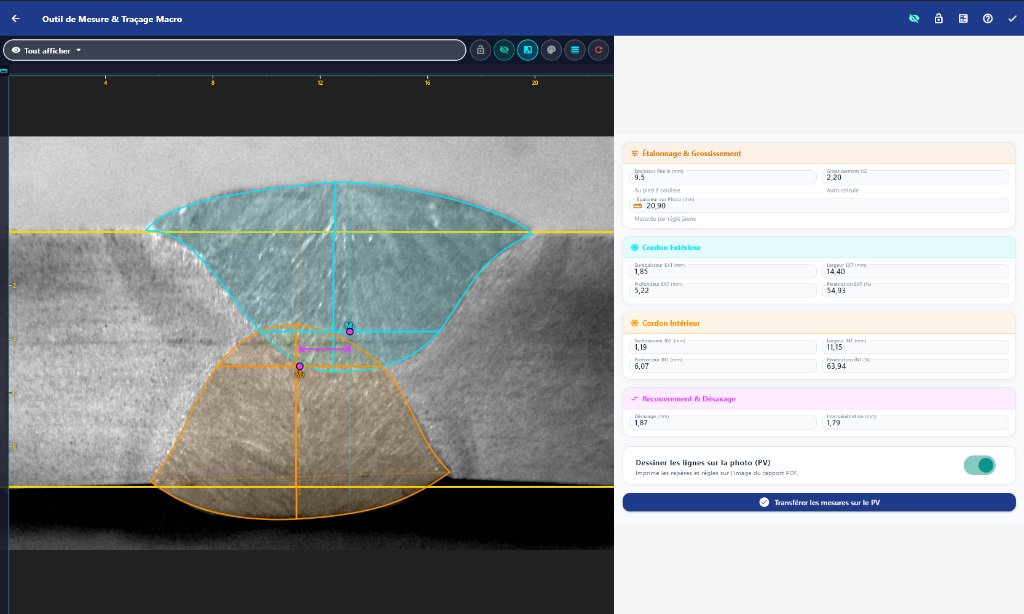
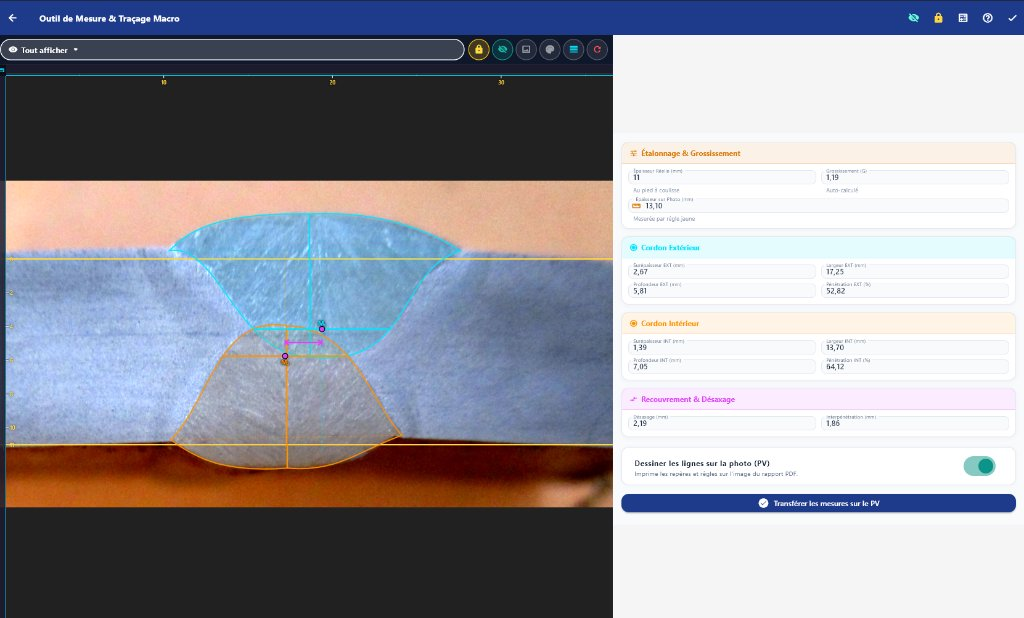
feat: update measurement workstation screenshot and author profile with surface treatment & numerical simulation

diff --git a/landing-page/index.html b/landing-page/index.html
@@ -45,9 +45,9 @@
         "@id": "https://tahaarrr.github.io/macrographique/#ayati-tahar",
         "name": "Ayati Tahar",
         "alternateName": ["Tahar Ayati", "Ingénieur Ayati Tahar", "Ing. Tahar Ayati"],
-        "jobTitle": "Ingénieur & Chercheur en Génie des Matériaux",
+        "jobTitle": "Ingénieur Chercheur en Génie des Matériaux",
         "email": "mailto:ayati.tahar@gmail.com",
-        "description": "Ingénieur métallurgiste spécialisé dans l’intégrité des soudures industrielles SAWH, les essais macrographiques et la conception logicielle.",
+        "description": "Ingénieur chercheur en génie des matériaux, spécialisé dans le traitement de surface, la simulation numérique et l’intégrité des soudures industrielles SAWH.",
         "url": "https://tahaarrr.github.io/macrographique/",
         "sameAs": [
           "https://www.researchgate.net/profile/Tahar-Ayati",
@@ -55,11 +55,13 @@
           "https://tahaarrr.github.io/macrographique/"
         ],
         "knowsAbout": [
+          "Génie des matériaux",
+          "Traitement de surface",
+          "Simulation numérique",
           "Métallurgie physique des soudures",
           "Inspection de soudures SAWH",
           "Macrographie et essais destructifs",
-          "Normes API Spec 5L et ISO 15614-1",
-          "Instrumentation et logiciel d’ingénierie"
+          "Normes API Spec 5L et ISO 15614-1"
         ]
       },
       {
@@ -381,7 +383,7 @@
         </div>
 
         <div class="workbench-frame">
-          <img src="assets/poste_mesure_exact.jpg" alt="Outil de mesure et traçage macrographique avec étalonnage optique" loading="lazy">
+          <img src="assets/poste_mesure_exact.jpg?v=2" alt="Outil de mesure et traçage macrographique avec étalonnage optique" loading="lazy">
         </div>
 
         <div class="comparison-grid" style="margin-top: 32px;">
@@ -570,13 +572,13 @@
       <div class="container author-grid">
         <div>
           <h2 class="author-name">Ayati Tahar</h2>
-          <div class="author-discipline">Ingénieur & Chercheur en Métallurgie</div>
+          <div class="author-discipline">Ingénieur Chercheur en Génie des Matériaux</div>
           <p class="author-text">
-            Métallurgie physique et intégrité des soudures.
+            Traitement de surface, simulation numérique et intégrité des soudures industrielles.
           </p>
           <div class="author-links">
             <a href="mailto:ayati.tahar@gmail.com">ayati.tahar@gmail.com</a>
-            <a href="https://github.com/tahaarrr/macrographique" target="_blank" rel="noopener noreferrer">GitHub</a>
+            <a href="https://github.com/tahaarrr" target="_blank" rel="noopener noreferrer">GitHub</a>
             <a href="https://www.researchgate.net/profile/Tahar-Ayati" target="_blank" rel="noopener noreferrer">ResearchGate</a>
           </div>
         </div>
@@ -584,10 +586,10 @@
         <div class="author-details-box">
           <div class="section-label">Expertise</div>
           <ul>
-            <li>Macrographie et CND</li>
-            <li>Homologation WPS</li>
-            <li>Métallurgie des aciers</li>
-            <li>Instrumentation logicielle</li>
+            <li>Traitement de surface</li>
+            <li>Simulation numérique</li>
+            <li>Génie des matériaux & métallurgie</li>
+            <li>Macrographie et CND (API 5L, ISO 15614)</li>
           </ul>
         </div>
       </div>
